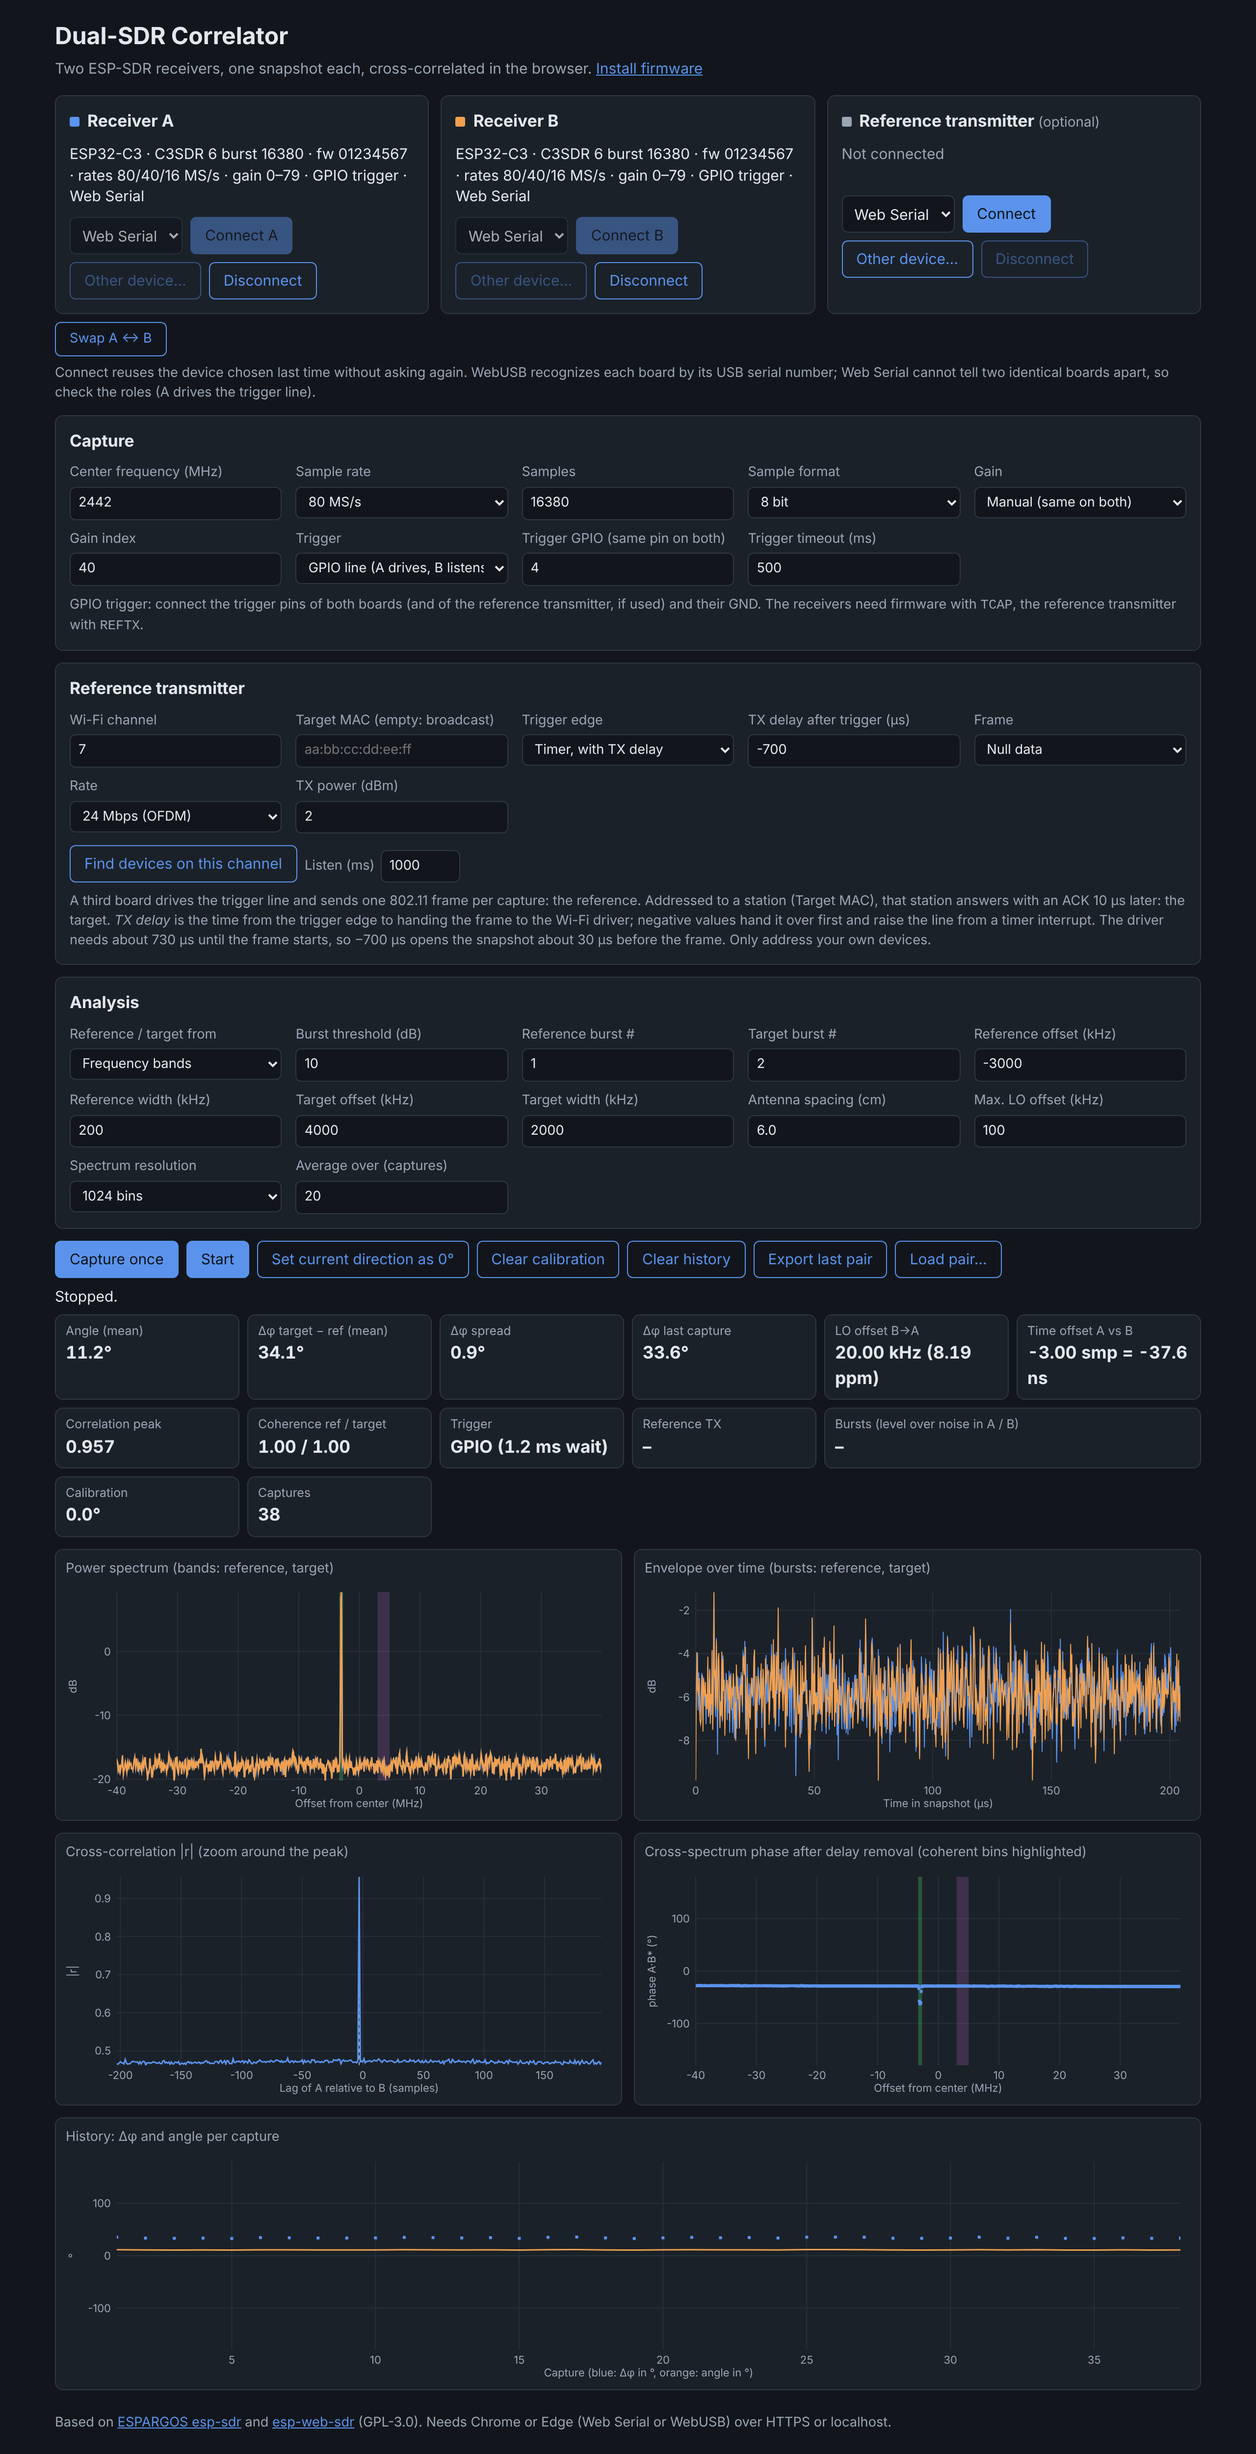
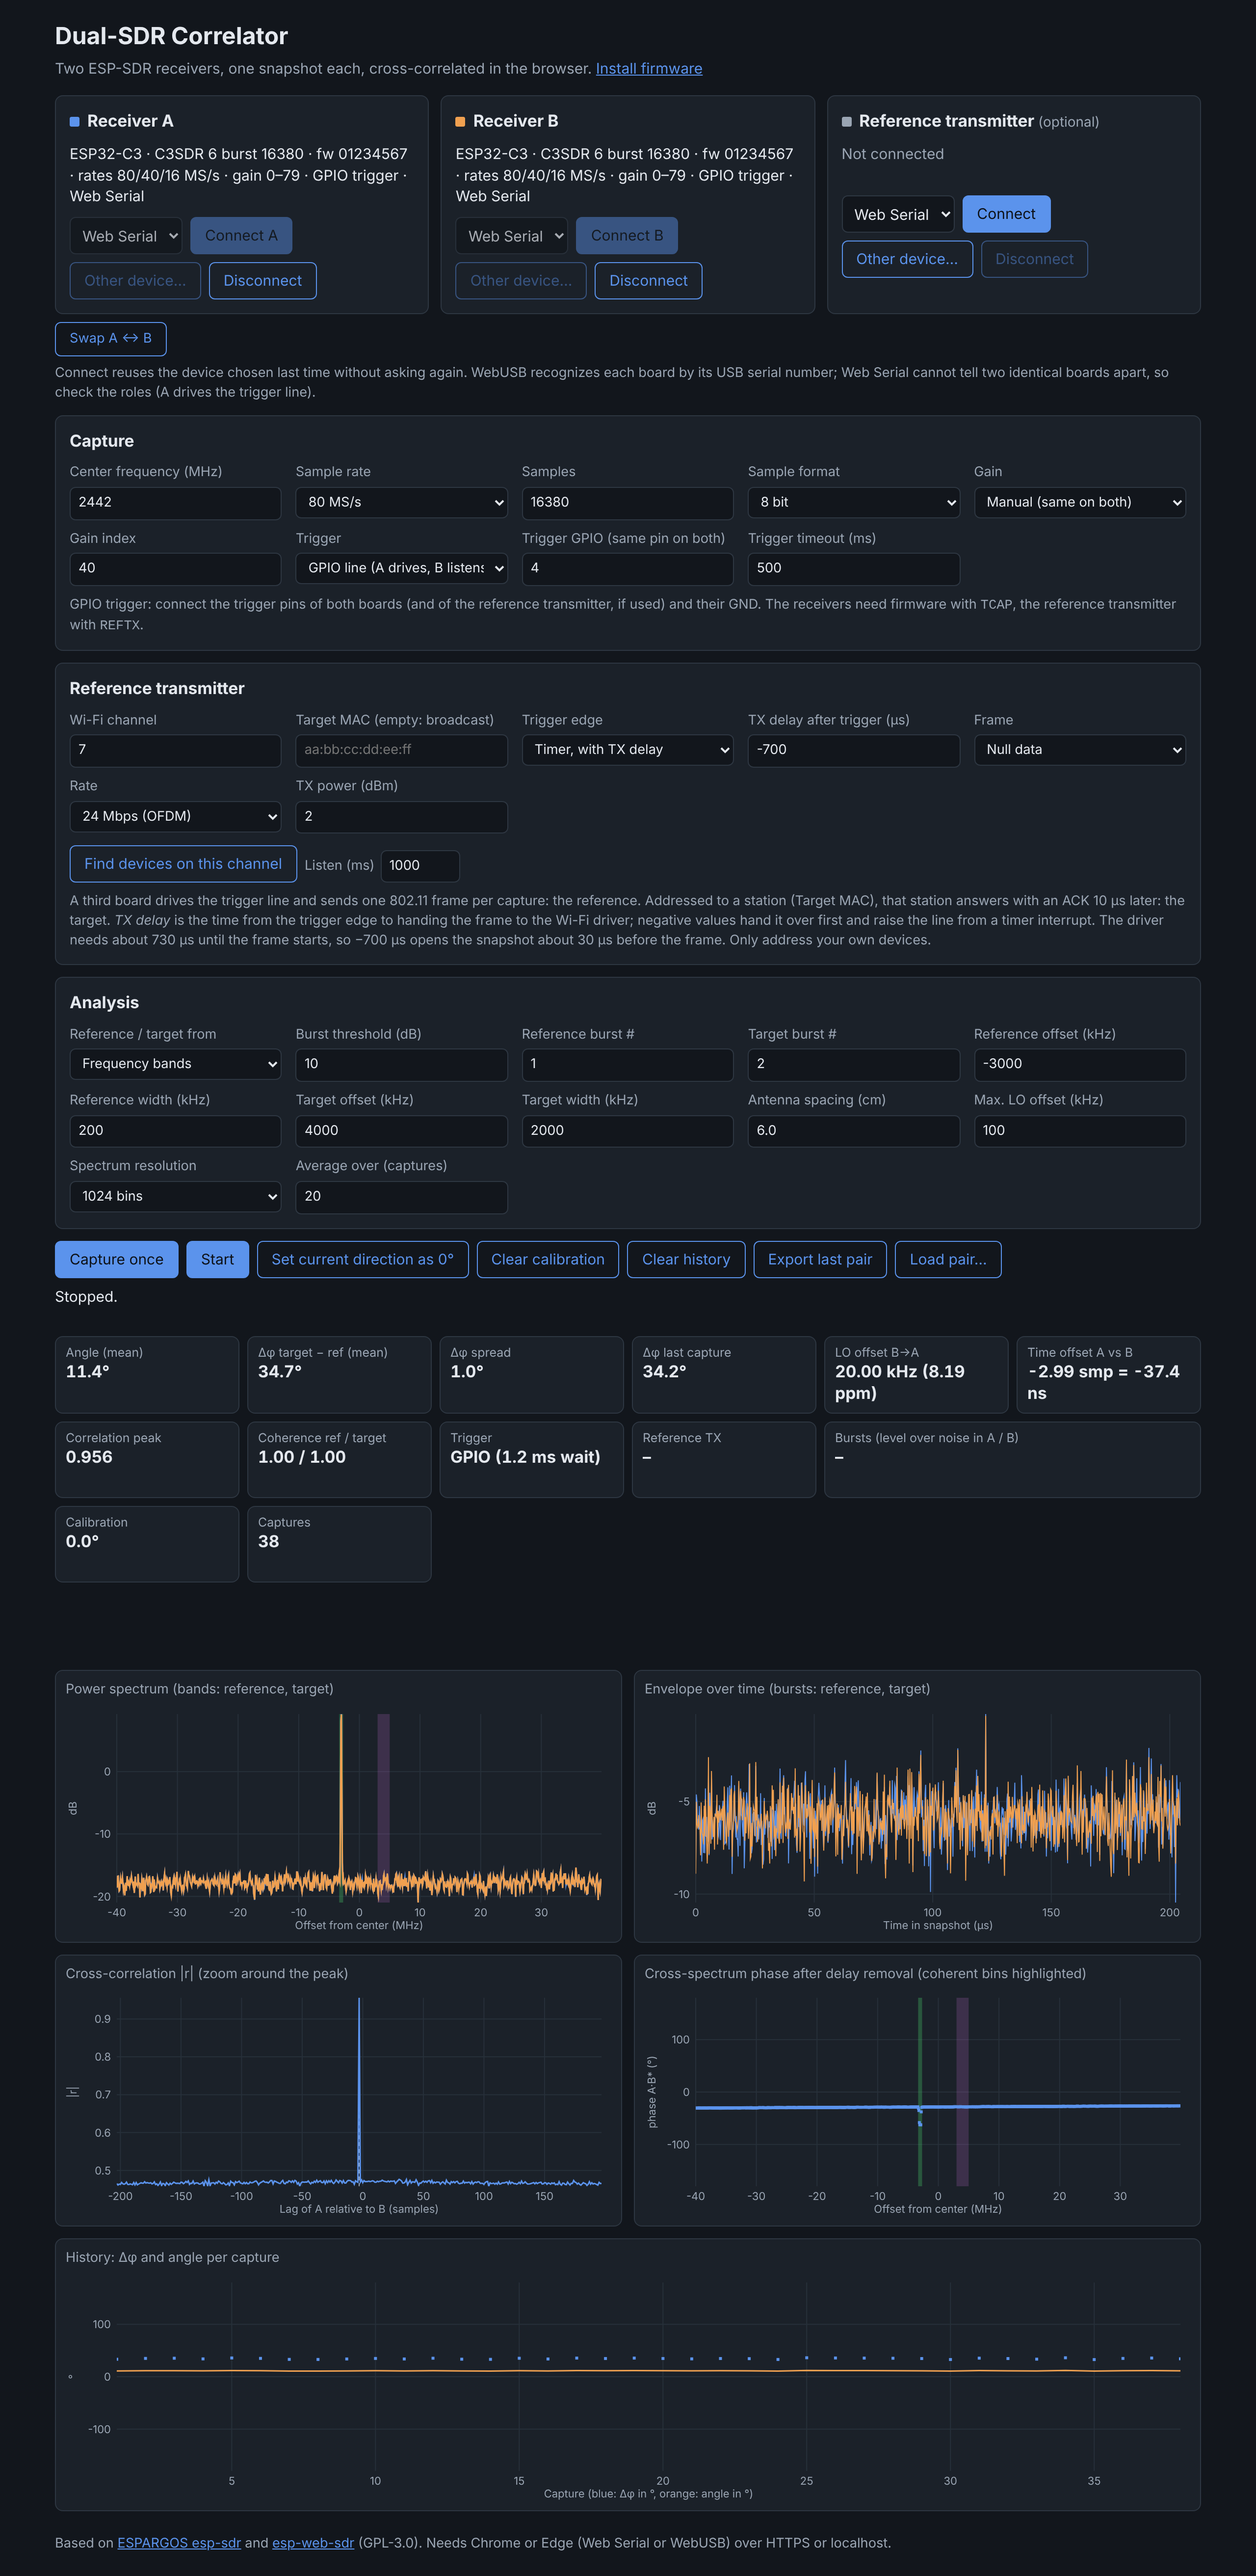
Web app: keep the layout fixed while warnings and metrics change
In continuous mode the warnings line, the status line, metric tiles with
longer values and the phase plot caption changed height between captures
and made the plots jump. They now have fixed heights (single-line captions
with the full text as tooltip). The e2e test checks that the plots stay in
place. Docs: phones in power save acknowledge only now and then.

Claude-Session: https://claude.ai/code/session_01AT8VYFL97bqSj9vxruKJ3q

diff --git a/webapp/style.css b/webapp/style.css
@@ -203,7 +203,8 @@ button:disabled {
   color: var(--muted);
 }
 #message {
-  min-height: 1.4em;
+  height: 2.9em;
+  overflow-y: auto;
   margin: 0 0 8px;
 }
 #message.error {
@@ -227,6 +228,9 @@ button:disabled {
   border: 1px solid var(--border);
   border-radius: 8px;
   padding: 8px 10px;
+  /* Fixed height (label plus two value lines), so the layout stays put. */
+  height: 4.9rem;
+  overflow: hidden;
 }
 .metrics span {
   display: block;
@@ -234,17 +238,20 @@ button:disabled {
   color: var(--muted);
 }
 .metrics strong {
-  font-size: 1.1rem;
+  display: block;
+  font-size: 1.05rem;
+  line-height: 1.3;
   font-variant-numeric: tabular-nums;
 }
+/* Fixed height: changing warnings must not move the plots in continuous mode. */
 .warnings {
   grid-column: 1 / -1;
   margin: 0;
   color: var(--warn);
-  min-height: 0;
-}
-.warnings:empty {
-  display: none;
+  height: 4.4em;
+  overflow-y: auto;
+  font-size: 0.92rem;
+  line-height: 1.45;
 }
 figure {
   margin: 0;
@@ -261,6 +268,10 @@ figcaption {
   font-size: 0.85rem;
   color: var(--muted);
   margin-bottom: 6px;
+  /* One line, so a changing caption does not move the plots below. */
+  white-space: nowrap;
+  overflow: hidden;
+  text-overflow: ellipsis;
 }
 canvas {
   display: block;

diff --git a/webapp/app.js b/webapp/app.js
@@ -897,8 +897,8 @@
             im = target.im[i] * ref.re[i] - target.re[i] * ref.im[i];
           return DualDSP.wrap(Math.atan2(im, re) - calibration) * DEG;
         });
-      caption.textContent =
-        'Cross-spectrum phase per burst: reference (green), target (purple) and Δφ = target − reference (blue, should be flat)';
+      caption.textContent = 'Phase per burst: reference (green), target (purple), Δφ = target − ref (blue, flat)';
+      caption.title = 'Cross-spectrum phase per burst. Δφ(f) should be flat at the Δφ metric.';
       plot($('plot-phase'), {
         series: [
           { x: f, y: phase(ref), color: css('--series-ref'), points: true, alpha: alpha(ref) },
@@ -912,6 +912,7 @@
       return;
     }
     caption.textContent = 'Cross-spectrum phase after delay removal (coherent bins highlighted)';
+    caption.title = '';
     const f = Array.from(r.cs.freq, (x) => x / 1e6),
       phase = Array.from(r.cs.re, (re, i) => Math.atan2(r.cs.im[i], re) * DEG),
       alpha = Array.from(r.cs.coherence, (g) => (g >= 0.5 ? 1 : 0.12));

diff --git a/CLAUDE.md b/CLAUDE.md
@@ -161,6 +161,11 @@ Takt-Spurs, für Sync und Referenz ungeeignet (nicht ins Referenzband legen).
   ~10 µs vollständig, ACK 16 µs danach; Referenz nur 13–16 dB über Rauschen,
   Router-ACK 25–31 dB. Nutzer: „manchmal sieht nur ein ESP die Referenz“ –
   Ursache offen (Verdacht: knappe Referenz + Mehrwege-Schwund).
+- Hardware 2026-11-16 (Nutzer): Timer-Trigger-Jitter ~30 µs (reicht für Ref+ACK
+  im Fenster). Router-ACK zuverlässig, Smartphone nur gelegentlich (Power Save,
+  auch mit YouTube-Traffic). Layout: Warnzeile, Statuszeile, Metrik-Kacheln
+  und Bildunterschriften haben feste Höhen, damit die Plots im Dauerlauf
+  nicht springen (E2E prüft das).
 - Hosting: `.github/workflows/pages.yml` veröffentlicht `webapp/` aus `main`
   (Settings → Pages → Source: GitHub Actions, vom Nutzer noch zu aktivieren).
   Lokal: `cd webapp && python3 -m http.server 8000`.

diff --git a/webapp/README.md b/webapp/README.md
@@ -213,7 +213,11 @@ the address into *Target MAC*. Notes:
   *random*. They acknowledge only the address they use right now, which is
   the one in this list.
 - Idle phones sleep most of the time and miss frames. Access points are always
-  awake, and devices with traffic (many frames) answer reliably.
+  awake, and devices with traffic (many frames) answer reliably. Measured: a
+  router acknowledged every frame, a phone only now and then even while
+  playing a video (it fetches in chunks and sleeps in between); continuous
+  traffic such as a ping flood or a speed test keeps it awake. Pairs without
+  an ACK have no target burst and are left out of the average.
 
 <img src="../docs/webapp-device-list.png" alt="Device list with an access point, a station with a random address and a device sending only management frames" width="640">
 
